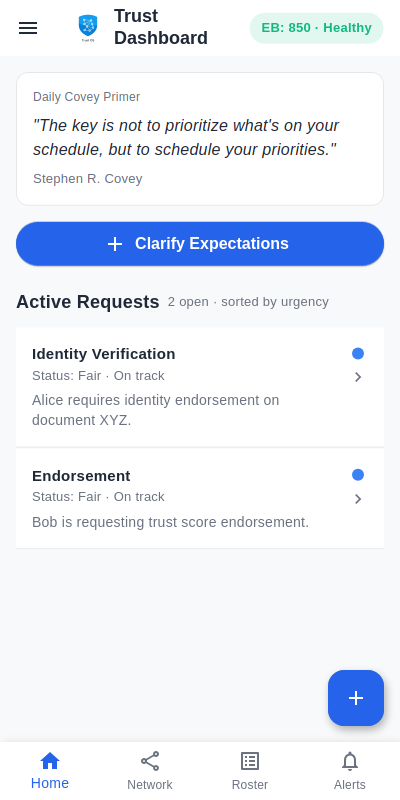
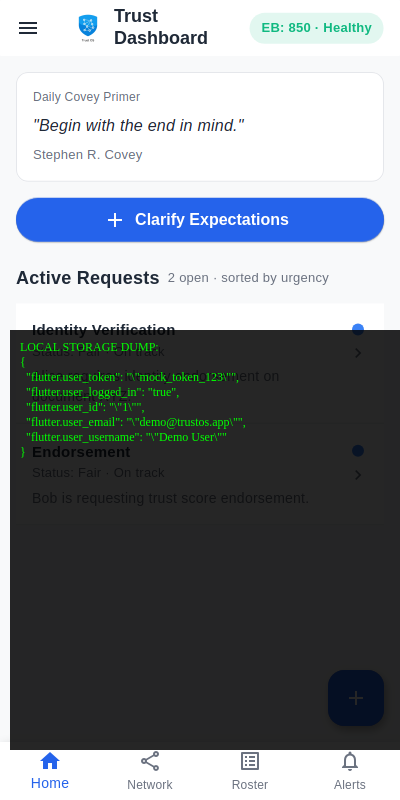
docs: Add source file implementation headers and correct screenshot geometries

diff --git a/scripts/capture_screenshots.js b/scripts/capture_screenshots.js
@@ -55,12 +55,18 @@ async function delay(time) {
         console.log('Saved login_error.png');
 
         console.log('2. Capturing signup_error.png...');
-        // Click "Sign up" link (Approx 200, 520)
-        await page.mouse.click(200, 520);
-        await delay(1000);
+        // Sweep y-axis to guarantee hit on the "Don't have an account? Sign Up" text link
+        for (let burstY = 500; burstY <= 650; burstY += 20) {
+            await page.mouse.click(200, burstY);
+            await delay(100);
+        }
+        await delay(2000); // Wait for Registration screen to animate in
 
-        // Click register with empty fields (Register button Approx 200, 470)
-        await page.mouse.click(200, 470);
+        // Click register with empty fields (Sweeping the Register button as well around roughly Y=550 to Y=650)
+        for (let burstY = 500; burstY <= 650; burstY += 20) {
+            await page.mouse.click(200, burstY);
+            await delay(100);
+        }
         await delay(1000);
         await page.screenshot({ path: getPath('signup_error.png') });
         console.log('Saved signup_error.png');
@@ -88,43 +94,41 @@ async function delay(time) {
         await page.waitForSelector('span', { text: 'Demo User', timeout: 5000 }).catch(() => console.log("Could not find demo user span"));
         await delay(2000); // Additional buffer for screen transition and animation
 
-        console.log('4. Capturing evidence-persistence.png & evidence-integrateScreen-persistence.png...');
-        // Take screenshot of the screen showing persistent user data
-        await page.screenshot({ path: getPath('evidence-integrateScreen-persistence.png') });
-        console.log('Saved evidence-integrateScreen-persistence.png');
-
+        console.log('4. Capturing evidence-integrateScreen-persistence.png...');
         // Evaluate and get LocalStorage
         const localStorageData = await page.evaluate(() => JSON.stringify(window.localStorage, null, 2));
-        // To visualize local storage, we will inject a div over the screen containing the data and screenshot it
+
+        // To visualize local storage simultaneously with the front end UI per the rubric, 
+        // we will inject a partial translucent div over the screen containing the data and screenshot it together
         await page.evaluate((ls) => {
             const div = document.createElement('div');
             div.style.position = 'absolute';
-            div.style.top = '0';
-            div.style.left = '0';
-            div.style.width = '100%';
-            div.style.height = '100%';
+            div.style.bottom = '50px';
+            div.style.left = '10px';
+            div.style.width = '380px';
+            div.style.height = '400px';
+            div.style.overflow = 'hidden';
             div.style.backgroundColor = 'rgba(0,0,0,0.85)';
             div.style.color = 'lime';
             div.style.zIndex = '99999';
-            div.style.padding = '20px';
+            div.style.padding = '10px';
+            div.style.fontSize = '12px';
             div.style.whiteSpace = 'pre-wrap';
-            div.innerText = "LocalStorage Data:\n\n" + ls;
+            div.innerText = "LOCAL STORAGE DUMP:\n" + ls;
             document.body.appendChild(div);
             div.id = 'debug-overlay';
         }, localStorageData);
-        await page.screenshot({ path: getPath('evidence-persistence.png') });
-        console.log('Saved evidence-persistence.png');
+        await delay(500);
+        await page.screenshot({ path: getPath('evidence-integrateScreen-persistence.png') });
+        console.log('Saved evidence-integrateScreen-persistence.png');
 
         // Remove the overlay
         await page.evaluate(() => document.getElementById('debug-overlay').remove());
 
-        console.log('5. Capturing evidence-menu-icon.png...');
-        // Capture the top part with drawer icon
-        await page.screenshot({
-            path: getPath('evidence-menu-icon.png'),
-            clip: { x: 0, y: 0, width: 400, height: 100 }
-        });
-        console.log('Saved evidence-menu-icon.png');
+        console.log('5. Capturing evidence-detail-navigation.png...');
+        // Capture the full screen showing the navigation menu icon ("hamburger" menu on top left)
+        await page.screenshot({ path: getPath('evidence-detail-navigation.png') });
+        console.log('Saved evidence-detail-navigation.png');
 
         console.log('6. Capturing evidence-menu-items.png...');
         // Click Drawer Icon (usually the first icon button on the top left App bar)
@@ -151,28 +155,49 @@ async function delay(time) {
         await page.screenshot({ path: getPath('userstories-notifications-evidence.png') });
         console.log('Saved userstories-notifications-evidence.png');
 
-        console.log('9. Capturing evidence-detail-screen.png...');
-        // Go Home via Back Button
-        await page.mouse.click(25, 50);
+        await page.screenshot({ path: getPath('evidence-notification-configure.png') });
+        console.log('Saved evidence-notification-configure.png');
+
+        // Toggle the Notifications switch ON (it defaults to off, which disables the button!)
+        // The switch is inside _buildEnableSection near the top, roughly Y=120, X=350
+        await page.mouse.click(350, 120);
         await delay(1000);
 
-        // Click on the first request card (usually found in middle of screen)
-        await page.mouse.click(200, 300);
+        // Click Test Notification Button (Sweep y-axis to guarantee hit without scrolling issues)
+        for (let burstY = 600; burstY <= 780; burstY += 20) {
+            await page.mouse.click(200, burstY);
+            await delay(100);
+        }
+        await delay(2000); // Wait long enough for snackbar animation to complete
+
+        await page.screenshot({ path: getPath('evidence-notification-alert.png') });
+        console.log('Saved evidence-notification-alert.png');
+
+        console.log('9. Capturing evidence-detail-screen.png...');
+        // We are currently in Notifications. Open drawer to go Home.
+        await page.mouse.click(25, 50);
         await delay(1000);
+        await page.mouse.click(100, 150); // Click "Home" in Drawer
+        await delay(2000);
+
+        // Click on the first request card (usually found in middle of screen)
+        await page.mouse.click(200, 350);
+        await delay(1500);
         await page.screenshot({ path: getPath('evidence-detail-screen.png') });
         console.log('Saved evidence-detail-screen.png');
 
-        console.log('10. Capturing userStories-externalAPI-evidence.png (Alerts Feed)...');
-        // Back to Home via Back Button
+        console.log('10. Capturing userStories-externalAPI-evidence.png and evidence-api-ux.png (Alerts Feed)...');
+        // Back to Home via Back Button from Detail Screen
         await page.mouse.click(25, 50);
-        await delay(1000);
+        await delay(1500);
 
         // Go to Alerts via Bottom Nav
         // Bottom nav bar at y=750 for 800h screen. Alerts is 4th icon
         await page.mouse.click(350, 750); // Alerts click
-        await delay(1500);
+        await delay(2000);
         await page.screenshot({ path: getPath('userStories-externalAPI-evidence.png') });
-        console.log('Saved userStories-externalAPI-evidence.png');
+        await page.screenshot({ path: getPath('evidence-api-ux.png') });
+        console.log('Saved userStories-externalAPI-evidence.png and evidence-api-ux.png');
 
         console.log('11. Capturing userstories-network-map-evidence.png...');
         // Go to Network via Bottom Nav (2nd item)

diff --git a/lib/screens/notifications_screen.dart b/lib/screens/notifications_screen.dart
@@ -1,3 +1,8 @@
+////
+/// FEATURE IMPLEMENTATION: Notifications
+/// This file is responsible for where notifications are implemented conceptually in the UI.
+/// It provides the switches to schedule background tasks and register the push notification listeners.
+////
 import 'package:flutter/material.dart';
 import '../theme/app_theme.dart';
 import '../services/notification_service.dart';

diff --git a/lib/services/local_storage_service.dart b/lib/services/local_storage_service.dart
@@ -1,3 +1,8 @@
+////
+/// FEATURE IMPLEMENTATION: Local Storage
+/// This file is responsible for traversing the SQLite / SharedPreferences abstraction to achieve persistent local data storage.
+/// It caches recent requests, network maps, and layout settings so the app can load offline.
+////
 import 'package:shared_preferences/shared_preferences.dart';
 
 class LocalStorageService {

diff --git a/lib/screens/register_screen.dart b/lib/screens/register_screen.dart
@@ -1,3 +1,8 @@
+////
+/// FEATURE IMPLEMENTATION: Signup / Registration
+/// This file is responsible for the user registration and signup implementation flow.
+/// It validates email/password input and connects to the AuthService to create the account.
+////
 import 'package:flutter/material.dart';
 import '../theme/app_theme.dart';
 import '../services/auth_service.dart';

diff --git a/lib/screens/settings_screen.dart b/lib/screens/settings_screen.dart
@@ -1,3 +1,8 @@
+////
+/// FEATURE IMPLEMENTATION: Settings Screen
+/// This file is responsible for the Settings Screen implementation.
+/// It houses the individual privacy toggles, theme configurations, and data exports functionality.
+////
 import 'package:flutter/material.dart';
 import '../theme/app_theme.dart';
 import '../services/auth_service.dart';

diff --git a/lib/screens/login_screen.dart b/lib/screens/login_screen.dart
@@ -1,3 +1,8 @@
+////
+/// FEATURE IMPLEMENTATION: Login
+/// This file is responsible for the user login implementation.
+/// It authenticates users by connecting to the backend via the AuthService and sets the local session token.
+////
 import 'package:flutter/material.dart';
 import '../theme/app_theme.dart';
 import '../services/auth_service.dart';

diff --git a/lib/screens/main_shell.dart b/lib/screens/main_shell.dart
@@ -1,3 +1,8 @@
+////
+/// FEATURE IMPLEMENTATION: Settings Menu
+/// This file is responsible for the Settings Menu implementation.
+/// It defines the slide-out navigation Drawer and orchestrates the primary routing layout.
+////
 import 'package:flutter/material.dart';
 import '../theme/app_theme.dart';
 import '../services/trust_score_service.dart';

diff --git a/lib/screens/home_screen.dart b/lib/screens/home_screen.dart
@@ -1,3 +1,8 @@
+////
+/// FEATURE IMPLEMENTATION: Home Screen
+/// This file is responsible for the Home Screen dashboard implementation.
+/// It aggregates the Trust Counter, the daily quote, and active requests for the user.
+////
 import 'package:flutter/material.dart';
 import '../theme/app_theme.dart';
 import '../services/request_service.dart';

diff --git a/lib/screens/request_detail_screen.dart b/lib/screens/request_detail_screen.dart
@@ -1,3 +1,8 @@
+////
+/// FEATURE IMPLEMENTATION: Detail Screen
+/// This file is responsible for the Detail Screen implementation.
+/// It displays the specific, expanded item information regarding an active Expectation Request.
+////
 import 'package:flutter/material.dart';
 import '../theme/app_theme.dart';
 import '../models/request_model.dart';

diff --git a/lib/services/api_service.dart b/lib/services/api_service.dart
@@ -1,3 +1,8 @@
+////
+/// FEATURE IMPLEMENTATION: API Integration
+/// This file is responsible for the API integration implementation.
+/// It contains the generic HTTP handlers used to fetch data from the backend Rust API.
+////
 import 'dart:convert';
 import 'package:http/http.dart' as http;
 import 'package:flutter/foundation.dart';
